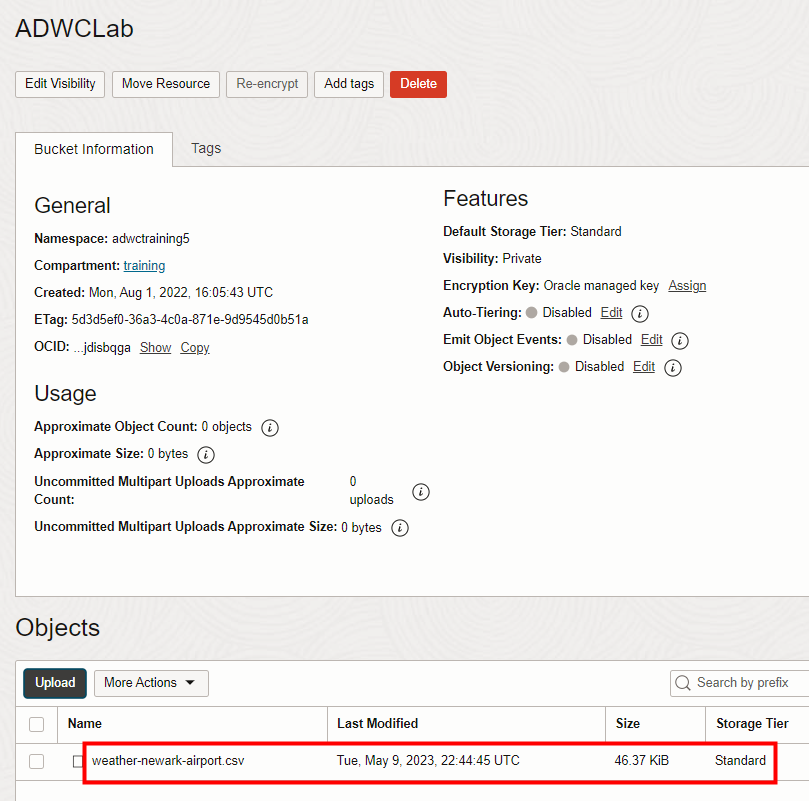
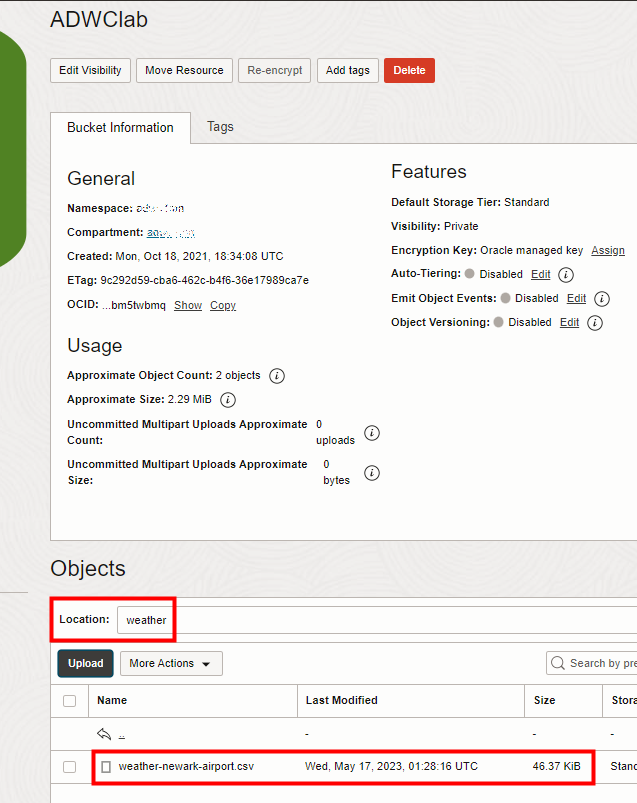
Workshop 141 Load and Analyze added Lab 9 on data pipeline
Workshop 141 Load and Analyze added new Lab 9 (optional): Create Data Pipelines for Continuous Data Import and Export

diff --git a/shared/adb-load-analyze-workshop/create-data-pipelines/create-data-pipelines.md b/shared/adb-load-analyze-workshop/create-data-pipelines/create-data-pipelines.md
@@ -4,7 +4,7 @@
 
 Oracle Data Pipelines provide a continuous, incremental and fault-tolerant way to export and import data into ADB. With data pipelines, you can quickly and automatically load data into your database such as from your object store, as your ETL jobs and other data sources bring in new, clean data into your object store.
 
-If you are loading data into or exporting out of ADB today, you are likely familiar with the **`DBMS_CLOUD`** package that provides the ability to load data into your database from the object store with `DBMS_CLOUD.COPY_DATA` or export data to your object store using `DBMS_CLOUD.EXPORT_DATA`. You may find yourself performing these operations repeatedly (you may even have scheduled jobs) to work with new data that is flowing into your object store or tables. The new Data Pipeline feature introduces the package **`DBMS_CLOUD_PIPELINE`** to simplify and automate this process, providing a unified solution of scheduled jobs for periodic data load and export of new data files with intuitive configurable knobs, legible troubleshooting outputs and default parallelism for optimal scalability.
+If you are loading data into or exporting out of ADB today, you are likely familiar with the **`DBMS_CLOUD`** package that provides the ability to load data into your database from the object store with `DBMS_CLOUD.COPY_DATA` or export data to your object store using `DBMS_CLOUD.EXPORT_DATA`. You may find yourself performing these operations repeatedly (you may even have scheduled jobs) to work with new data that is flowing into your object store or tables. The new Data Pipeline feature introduces the package **`DBMS_CLOUD_PIPELINE`** to simplify and automate this process, providing a unified solution of **scheduled jobs for periodic data load and export of new data files** with intuitive configurable knobs, legible troubleshooting outputs and default parallelism for optimal scalability.
 
 The two types of data pipelines available are:
 
@@ -70,7 +70,9 @@ Next, you will set the appropriate attributes for the data pipeline, such as the
 
     Run the following code snippet in your SQL worksheet.
 
-    **Note**: For the **credential name** value, use the name of the credential you created in Lab 6, Task 6. For the **location** value, swap in the base URL path you identified in Lab 6, Task 4.:
+    **Note**: For the **credential name** value, use the name of the credential you created in Lab 6, Task 6.
+
+    **Note**: For the **location** value, swap in the base URL path you identified in Lab 6, Task 4, **and append it with `/weather`**. You will be defining a subfolder in your storage bucket named "weather", to contain a weather data file that you will be uploading.
 
     ```
     <copy>
@@ -79,15 +81,28 @@ Next, you will set the appropriate attributes for the data pipeline, such as the
        pipeline_name => 'MY_FIRST_PIPELINE',
        attributes => JSON_OBJECT(
                     'credential_name' VALUE 'OBJ_STORE_CRED',
-                    'location' VALUE 'https://objectstorage.us-phoenix-1.oraclecloud.com/n/namespace-string/b/mybucket/o/',
-                    'table_name' VALUE 'WEATHER',
-                    'format' VALUE '{"type": "csv"}',
-                    'priority' VALUE 'HIGH', 'interval' VALUE '30') );
+                    'location' VALUE 'https://objectstorage.us-ashburn-1.oraclecloud.com/n/adwc4pm/b/ADWClab/o/weather',
+                    'table_name' VALUE 'weather',
+                    'format' VALUE '{
+                                     "delimiter" : ",",
+                                     "type": "csv",
+                                     "ignoremissingcolumns" : true,
+                                     "dateformat" : "YYYY-MM-DD",
+                                     "ignoreblanklines" : true,
+                                     "blankasnull" : true,
+                                     "trimspaces" : "lrtrim",
+                                     "skipheaders" : 1
+                                   }',
+                    'priority' VALUE 'HIGH',
+                    'interval' VALUE '20')
+                    );
 
     END;
     /
     </copy>
     ```
+
+    ![Configure the pipeline attributes](./images/confgure-pipeline-attributes-with-subfolder.png " ")
 
 ## Task 3: Preview how to test the data pipeline
 
@@ -171,7 +186,7 @@ Before starting the data pipeline, create the WEATHER table in your target auton
 
     ```
     <copy>
-    CREATE TABLE WEATHER (location VARCHAR2(50), zipcode VARCHAR2(20), reported_date DATE, wind_avg NUMBER, precipitation NUMBER, snow NUMBER, snowdepth NUMBER, temp_max NUMBER, temp_min NUMBER);
+    CREATE TABLE WEATHER (location VARCHAR2(100), zipcode VARCHAR2(20), reported_date DATE, wind_avg NUMBER, precipitation NUMBER, snow NUMBER, snowdepth NUMBER, temp_max NUMBER, temp_min NUMBER);
     </copy>
     ```
 
@@ -220,36 +235,41 @@ Now you upload the `weather-newark-airport.csv` file to your object storage buck
 
     ![Select Storage and then Buckets from the left navigation window in the Oracle Cloud homepage.](./images/select-storage-then-buckets.png " ")
 
-2. You should now be on the **Object Storage & Archive Storage** page. Check that you are in the compartment in which you created your bucket. Click your **bucket name** to open it.
+2. You should now be on the **Object Storage & Archive Storage** page. Check that you are in the compartment in which you created your bucket. (The following screenshot shows a typical assigned compartment name for those running the workshop in a hosted LiveLabs sandbox.) Click your **bucket name** to open it.
 
-    <if type="livelabs">
+
     ![Click the bucket name.](./images/click-bucket-name-livelabs.png " ")
 
-3. Click the **Upload** button:
+3. In your bucket, you will see the `potential_churners.csv` file that you uploaded in a previous lab. Let's make a new folder in this bucket to upload the weather data. In the **Objects** section of the **Bucket Details** page, click **More Actions** and select **Create New Folder**.
 
-    ![Click Upload under Objects section.](./images/click-upload-livelabs.png " ")
-    </if>
-    <if type="freetier">
-    ![Click the bucket name.](./images/click-bucket-name.png " ")
+    ![Click Create New Folder.](./images/create-new-folder.png " ")
 
-3. Click the **Upload** button:
+4. In the **Create New Folder** dialog, enter the folder name, `weather`, and click **Create**.
+
+    ![Create a folder named weather.](./images/create-folder-named-weather.png " ")
+
+5. Click the new `weather` folder to open it.
+
+    ![Click the weather folder to open it.](./images/click-to-open-weather-folder.png " ")
+
+6. Now that you are in the `weather` folder, click the **Upload** button:
 
     ![Click Upload under Objects section.](./images/click-upload.png " ")
-    </if>
 
-4. Drag and drop, or click **select files**, to select the `weather-newark-airport.csv` file you downloaded in the previous task. Click **Upload** and wait for the upload to complete:
+
+7. Drag and drop, or click **select files**, to select the `weather-newark-airport.csv` file you downloaded in the previous task. Click **Upload** and wait for the upload to complete:
 
     ![Select and upload the weather-newark-airport.csv file.](./images/select-and-upload-weather-newark-airport-file.png " ")
 
-5. When the file finishes uploading, click **Close** at the bottom of the Upload Objects page. The end result should look like this with the file listed under **Objects**:
+8. When the file finishes uploading, click **Close** at the bottom of the Upload Objects page. The end result should look like this with the file listed under **Objects**:
 
     ![Click Close when the file finishes uploading.](./images/click-close-when-file-finishes-uploading.png " ")
 
 ## Task 9: Check that the data pipeline loaded the data into the database
 
-When you uploaded your new weather data to your object store, the pipeline should have detected the new data and loaded it to your target autonomous database.
+When you uploaded your new weather data to your object store, the pipeline should have detected the new data and loaded it to your target autonomous database WEATHER table.
 
-1. Check that your weather data was loaded from your object store to the WEATHER table in your database. In a SQL Worksheet, run the following query to show 10 rows of data in the WEATHER table:
+1. Check that your weather data was loaded from your object store to the WEATHER table in your database. In a SQL Worksheet, run the following query to show a sampling of 10 rows of data in the WEATHER table:
 
     ```
     <copy>
@@ -258,6 +278,8 @@ When you uploaded your new weather data to your object store, the pipeline shoul
     /
     </copy>
     ```
+
+    ![Check that weather data uploaded to bucket has been loaded to target table.](./images/check-weather-data-loaded-to-target-table.png " ")
 
 ## Learn More
 
@@ -270,7 +292,7 @@ The following link provides more information about Oracle Data Pipelines:
 ## Acknowledgements
 
 * **Author** - Rick Green, Principal Developer, Database User Assistance
-* **Contributor** Nilay Panchal, Principal Product Manager, Autonomous Database
+* **Contributors** Nilay Panchal, Principal Product Manager, Autonomous Database; Marty Gubar, Director of Product Management, Autonomous Database; Sanket Jain, Archtect, Autonomous Database
 * **Last Updated By/Date** - Rick Green, May 2023
 
 Data about movies in this workshop were sourced from Wikipedia.
